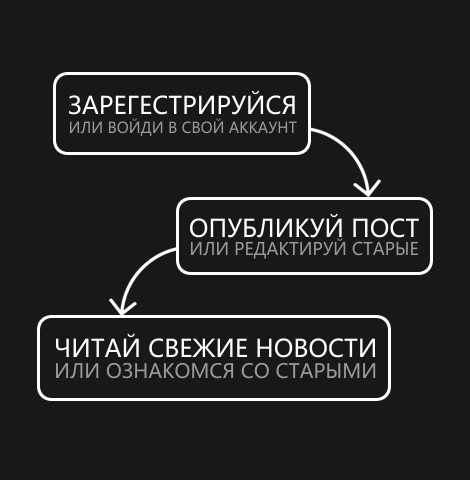
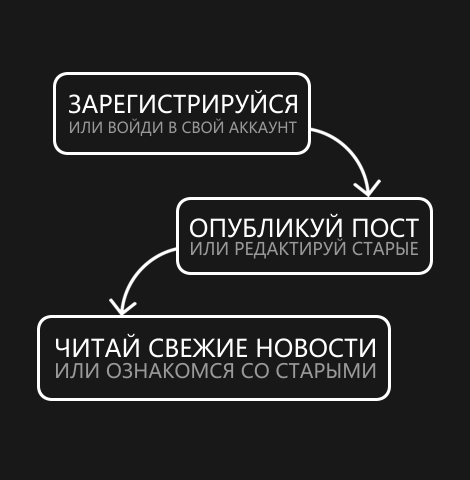
v. 1.1.0

Changed region(s): [[0.1489, 0.1875, 0.6553, 0.25]]

diff --git a/templates/base.html b/templates/base.html
@@ -4,6 +4,7 @@
     <meta charset="utf-8">
     <meta name="viewport" content="width=device-width, initial-scale=1, shrink-to-fit=no">
     <title>{{title}}</title>
+    <link rel="shortcut icon" type="image/x-icon" href="/static/img/favicon.ico">
     <link rel="stylesheet" type="text/css" href="/static/css/default.css">
     <link rel="stylesheet" type="text/css" href="/static/css/bootstrap.min.css">
     <link rel="stylesheet" type="text/css" href="/static/css/owl.carousel.min.css">
@@ -35,9 +36,9 @@
                                 {% if current_user.is_authenticated %}
                                 <li><a href="/posts">лента</a></li>
                                 <li><a href="/news">добавить пост</a></li>
-                                <li><a href="#">{{ current_user.name }}</a>
+                                <li><a href="/profile/{{current_user.id}}">{{ current_user.name }}</a>
                                     <ul class="sub-menu text-left">
-                                        <li><a href="#">профиль</a></li>
+                                        <li><a href="/profile/{{current_user.id}}">профиль</a></li>
                                         <li><a href="/logout">выход</a></li>
                                     </ul>
                                 </li>
@@ -80,12 +81,9 @@
     </div>
 </footer>
 
-<script src="/static/js/vendor/modernizr-3.5.0.min.js"></script>
+
 <script src="/static/js/vendor/jquery-1.12.4.min.js"></script>
-<script src="/static/js/popper.min.js"></script>
 <script src="/static/js/bootstrap.min.js"></script>
-<script src="/static/js/owl.carousel.min.js"></script>
-<script src="/static/js/isotope.pkgd.min.js"></script>
 <script src="/static/js/jquery.magnific-popup.min.js"></script>
 <script src="/static/js/slick.min.js"></script>
 <script src="/static/js/jquery.meanmenu.min.js"></script>

diff --git a/templates/profile.html b/templates/profile.html
@@ -1,15 +1,30 @@
 {% extends "base.html" %}
 
 {% block content %}
+<div class="post col-md-8 col-sm-12 offset-md-2 mb-20">
+    <div class="row">
+        <div class="col-xl-4 col-lg-4 mb-15 mt-15">
+            <div class="about-img">
+                <img src="/static/img/profile.png" alt=""/>
+            </div>
+        </div>
+        <div class="col-xl-8 col-lg-8 mb-15 mt-15">
+            <div class="about-wrapper">
+                <h4 class="about-title">{{user[0]}}</h4>
+                <p>{{user[1]}}</p>
+            </div>
+        </div>
+    </div>
+</div>
 {% for item in news%}
-<div class="post col-md-6 col-sm-12 col-xs-12 offset-md-3 mb-20">
+<div class="post col-md-6 col-sm-12 col-12 offset-md-3 mb-20">
     <div class="row">
         <div class="col-md-8 col-sm-8 col-8">
             <h2>{{item[0]}}</h2>
         </div>
         <div class="col-md-4 col-sm-4 col-4 text-right">
             {% if current_user.is_authenticated and current_user == item[3] %}
-            <a href="/news/{{ item[6] }}" class="btn btn-ch-dl" ><i class="fa fa-pencil-square-o fa-2x"></i></a>
+            <a href="/news/{{ item[6] }}" class="btn btn-ch-dl"><i class="fa fa-pencil-square-o fa-2x"></i></a>
             <a href="/news_delete/{{ item[6] }}" class="btn btn-ch-dl"><i class="fa fa-trash-o fa-2x"></i></a>
             {% endif %}
         </div>
@@ -26,7 +41,7 @@
         {{item[1]}}
     </div>
     <div class="pb-10">
-        <font color="#808080">Автор: </font><a href="/profile/{{item[6]}}" class="a-profile">{{item[2]}}</a>
+        <font color="#808080">Автор: </font>{{item[2]}}
     </div>
     {% endif %}
 </div>

diff --git a/templates/index.html b/templates/index.html
@@ -32,7 +32,7 @@
                         но и от менее известных персон. Узнавай новое и делись интересным - слоган нашей платформы.</p>
                         <h4 class="about-title">Как начать?</h4>
                         <ul class="about-link">
-                            <li>Зарегестрируйся</li>
+                            <li>Зарегистрируйся</li>
                             <li>Изучи ленту</li>
                             <li>Создай собственный пост</li>
                         </ul>

diff --git a/static/css/style.css b/static/css/style.css
@@ -343,6 +343,13 @@ label {
     margin-top: 33px;
 }
 
+.img-profile {
+}
+
+.img-profile img {
+    width: 100%;
+}
+
 .main-menu ul {
 }
 
@@ -1351,10 +1358,14 @@ body {
 
 .about-title {
     font-weight: 600;
-    font-size: 18px;
+    font-size: 30px;
     color: #000000;
     margin-bottom: 16px;
     text-transform: uppercase;
+}
+
+.a-profile {
+    color: #000000;
 }
 
 .about-link {

diff --git a/main.py b/main.py
@@ -51,11 +51,40 @@ def posts():
     return render_template("posts.html", news=sp, title='Лента')
 
 
+@app.route("/profile/<int:id>")
+def profile(id):
+    session = db_session.create_session()
+    user = session.query(User).filter(User.id == id).first()
+    us = [user.name, user.about]
+    news = session.query(News).filter((News.user_id == id) &
+                                      (News.is_private != True))
+    s = []
+    for i in news:
+        x = [i.title, i.content, i.user.name, i.user]
+        a = str(i.created_date).split()
+        c = a[0].split('-')
+        b = ':'.join(a[1].split(":")[:2]) + ' ' + "{}.{}.{}".format(c[2], c[1], c[0])
+        x.append(b)
+        x.append(i.is_private)
+        x.append(i.id)
+        s.append(x)
+    sp = list(reversed(s))
+    return render_template("profile.html", user=us, news=sp, title='Профиль')
+
+
 @app.route('/news', methods=['GET', 'POST'])
 @login_required
 def add_news():
     form = NewsForm()
     if form.validate_on_submit():
+        if len(form.title.data) > 20:
+            return render_template('news.html', title='Добавление поста',
+                                   form=form,
+                                   message="*Максимальная длинна заголовка - 20 символов")
+        if len(form.content.data) > 300:
+            return render_template('news.html', title='Добавление поста',
+                                   form=form,
+                                   message="*Максимальная длинна текста - 300 символов")
         session = db_session.create_session()
         news = News()
         news.title = form.title.data
@@ -84,6 +113,14 @@ def edit_news(id):
         else:
             abort(404)
     if form.validate_on_submit():
+        if len(form.title.data) > 20:
+            return render_template('news.html', title='Редактирование поста',
+                                   form=form,
+                                   message="*Максимальная длинна заголовка - 20 символов")
+        if len(form.content.data) > 300:
+            return render_template('news.html', title='Редактирование поста',
+                                   form=form,
+                                   message="*Максимальная длинна текста - 300 символов")
         session = db_session.create_session()
         news = session.query(News).filter(News.id == id,
                                           News.user == current_user).first()
